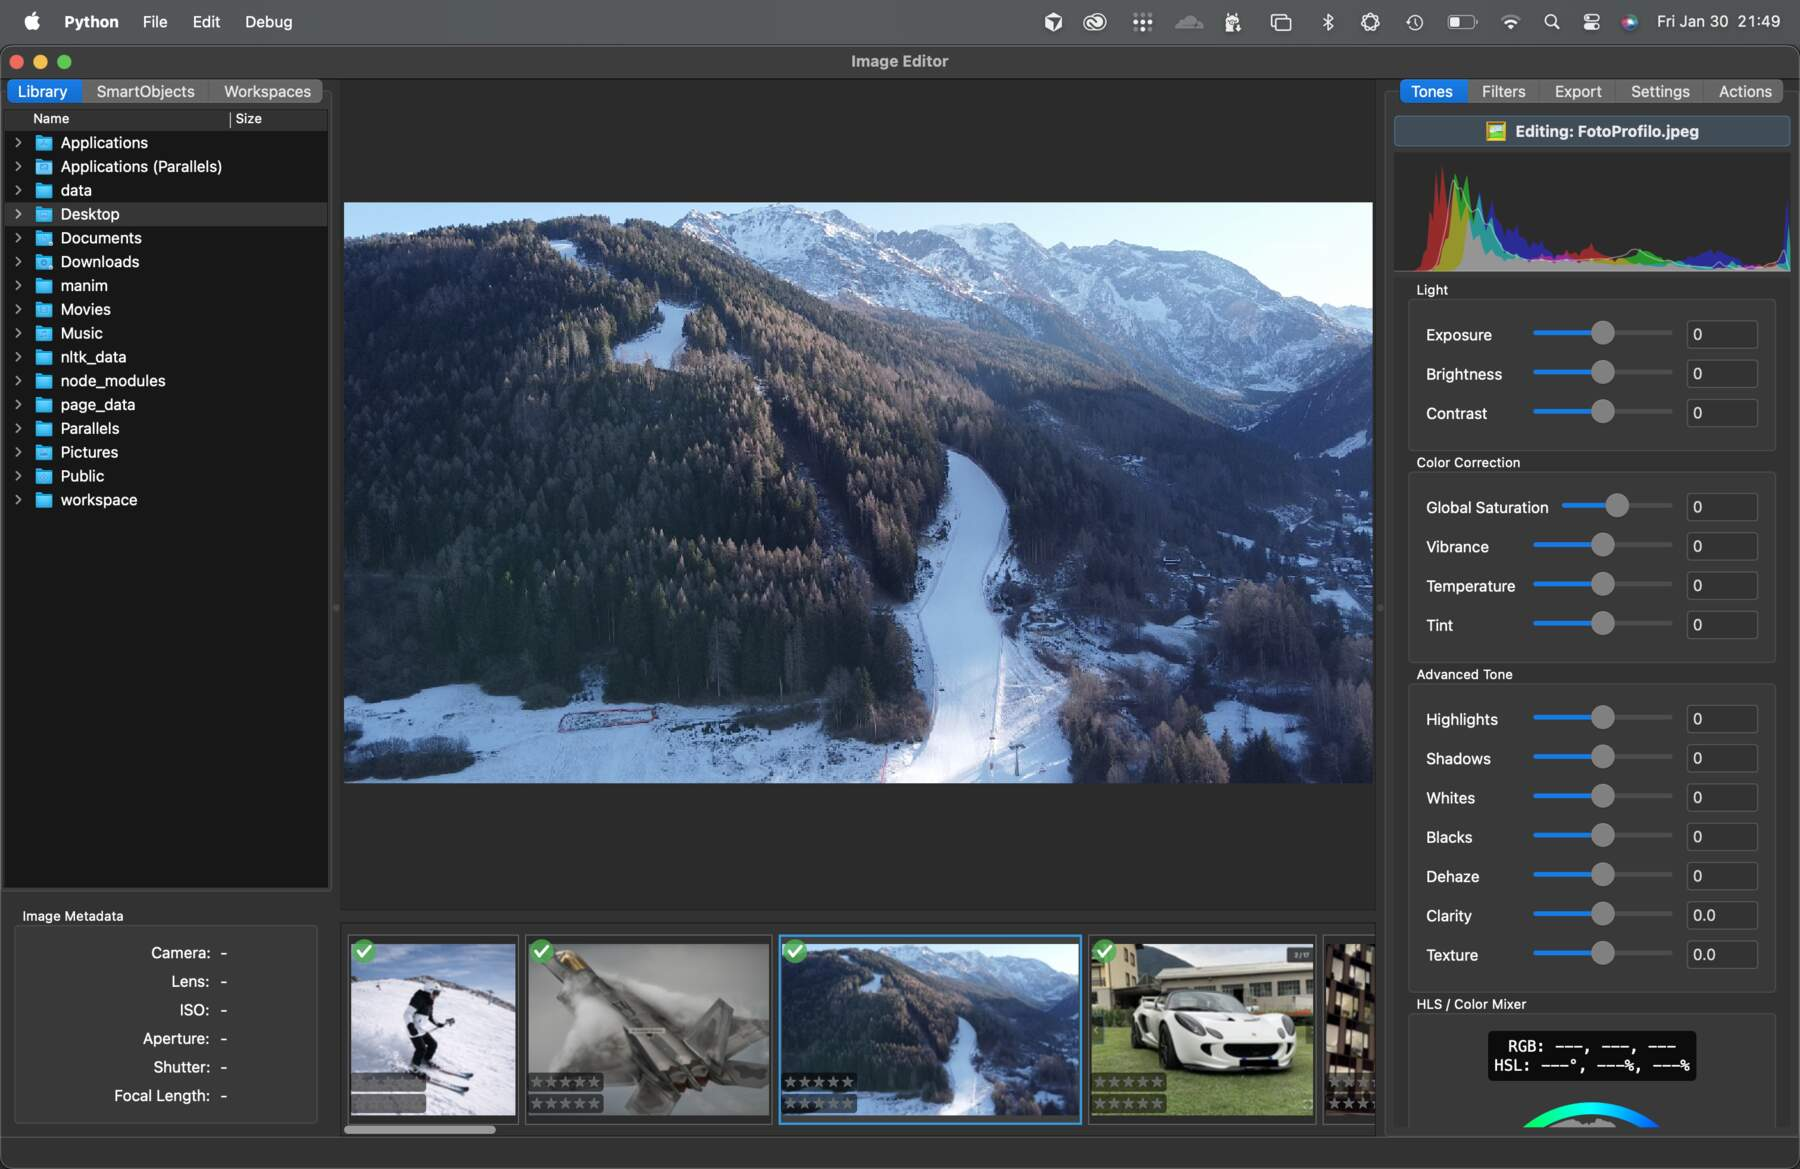
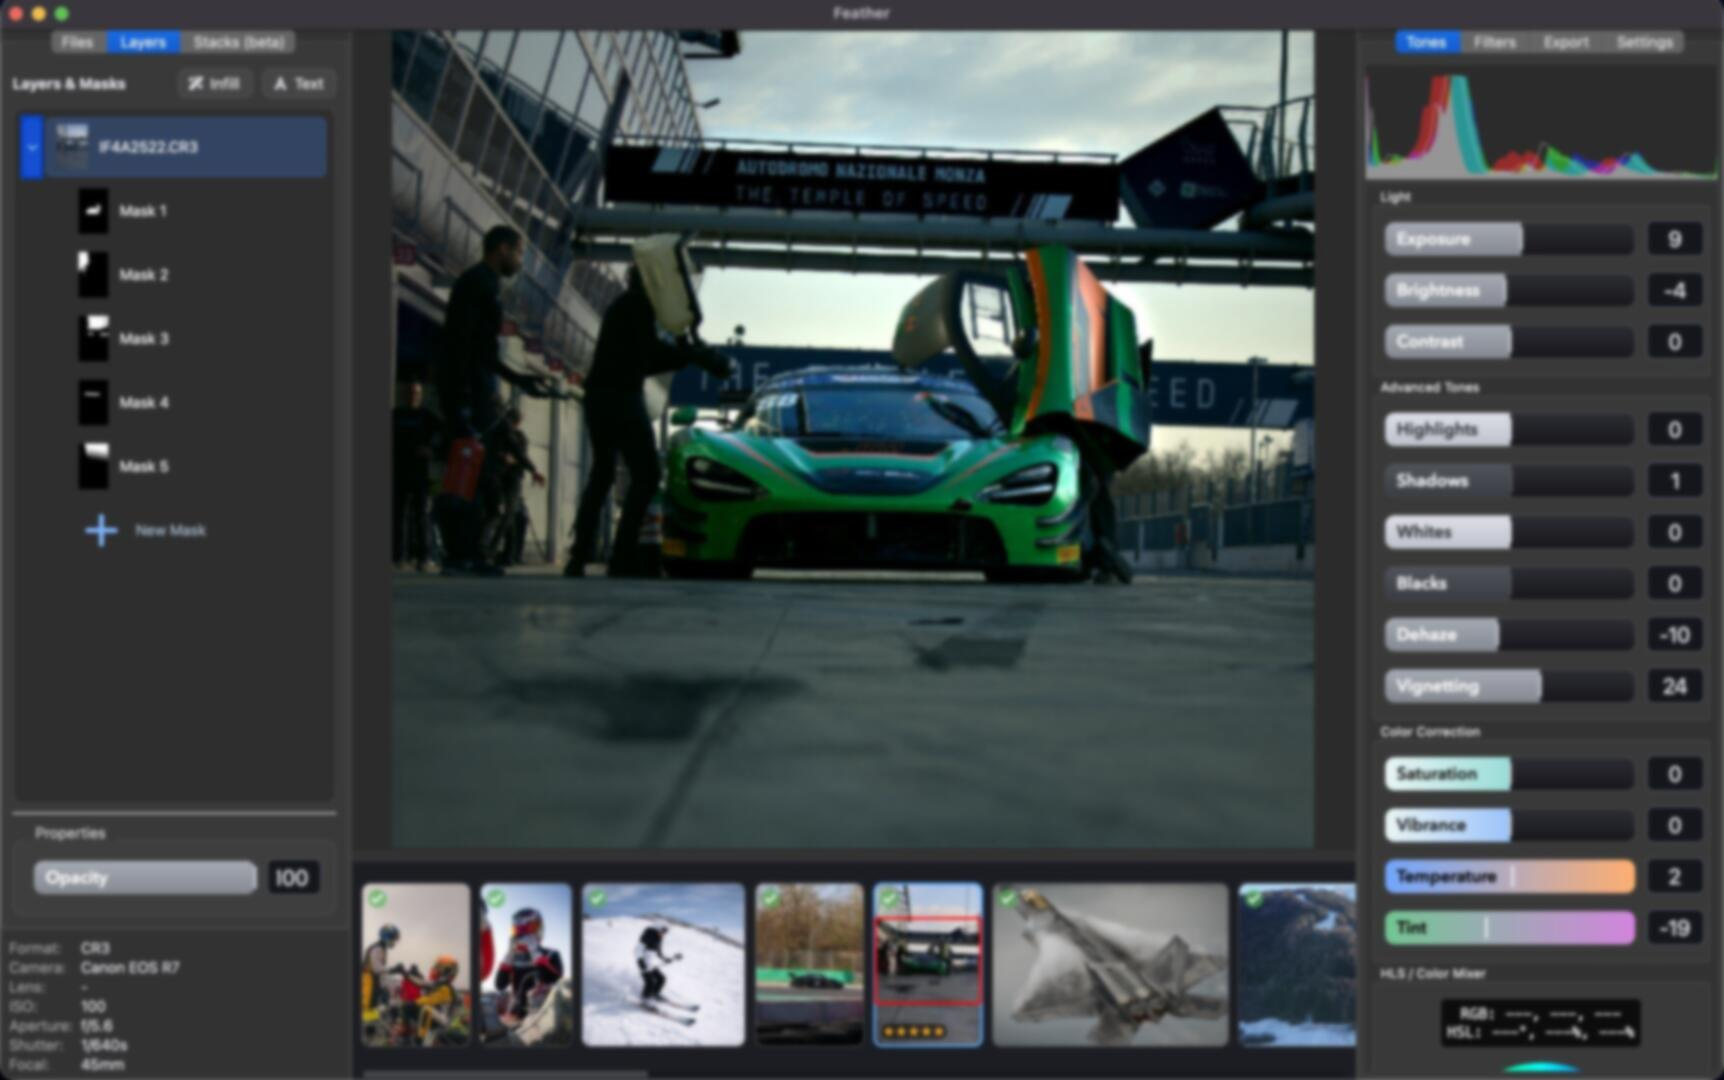
fuck it good enough

diff --git a/components/Hero.tsx b/components/Hero.tsx
@@ -2,7 +2,7 @@ import React, { useState, useEffect } from 'react';
 import { motion, AnimatePresence } from 'framer-motion';
 import { ChevronDown, Apple, Monitor } from 'lucide-react';
 
-const words = ["Camera's", "Creator's", "Full Frame", "Real"];
+const words = ["Private AI", "GenAI Infill", "Color Mixer", "Start Free", "Buy Once", "Smart Selection"];
 
 const Hero: React.FC<{ onPurchase: () => void; loading?: boolean }> = ({ onPurchase, loading = false }) => {
   const [index, setIndex] = useState(0);
@@ -23,8 +23,8 @@ const Hero: React.FC<{ onPurchase: () => void; loading?: boolean }> = ({ onPurch
 
   return (
     <section className="relative h-screen w-full flex flex-col items-center justify-center text-center px-4 overflow-hidden bg-black">
-      {/* Background Image (30% opacity) */}
-      <div className="absolute inset-0 bg-[url('/images/firstimage.jpg')] bg-cover bg-center opacity-10 z-0" />
+      {/* Background Image (10% opacity) */}
+      <div className="absolute inset-0 bg-[url('/images/firstimage.jpg')] bg-cover bg-center opacity-20 z-0" />
       {/* Background Glow */}
       <div className="absolute top-1/2 left-1/2 -translate-x-1/2 -translate-y-1/2 w-[600px] h-[600px] bg-blue-900/20 rounded-full blur-[120px] -z-10" />
 
@@ -32,16 +32,13 @@ const Hero: React.FC<{ onPurchase: () => void; loading?: boolean }> = ({ onPurch
         initial={{ opacity: 0, y: 20 }}
         animate={{ opacity: 1, y: 0 }}
         transition={{ duration: 0.8 }}
-        className="space-y-2 mb-12 flex flex-col items-center z-10 w-full max-w-[900px]"
+        className="space-y-[0.4rem] mb-12 flex flex-col items-center z-10 w-full max-w-[900px]"
       >
-        <h1 className="text-4xl md:text-6xl lg:text-7xl font-bold tracking-tight text-transparent bg-clip-text bg-gradient-to-b from-white to-white/70 whitespace-nowrap">
-          <span className="inline-flex items-center gap-x-2 md:gap-x-3">
-            <span>Phone&apos;s</span>
-            <span>Brain.</span>
-          </span>
+        <h1 className="text-4xl md:text-6xl lg:text-7xl font-bold tracking-tight text-transparent bg-clip-text bg-gradient-to-b from-white to-white/70 scale-85 origin-top">
+          <span className="block">Rethink Pictures</span>
         </h1>
         {/* Desktop version with rotating words */}
-        <div className="hidden md:flex w-full flex-row justify-center items-center gap-x-2 md:gap-x-3 text-6xl lg:text-7xl font-bold tracking-tight whitespace-nowrap">
+        <div className="hidden md:flex w-full flex-row justify-center items-center gap-x-2 md:gap-x-3 text-6xl lg:text-7xl font-bold tracking-tight whitespace-nowrap scale-85 origin-top" style={{ marginLeft: '27px' }}>
           <div className="relative h-[1.3em] w-[6ch]">
             <div className="absolute right-0 h-[1.3em] w-[11ch] overflow-hidden text-right flex items-center justify-end">
               <AnimatePresence mode="wait">
@@ -58,13 +55,13 @@ const Hero: React.FC<{ onPurchase: () => void; loading?: boolean }> = ({ onPurch
               </AnimatePresence>
             </div>
           </div>
-          <span className="text-transparent bg-clip-text bg-gradient-to-b from-white to-white/70 pb-1">Heart.</span>
+          <span className="text-transparent bg-clip-text bg-gradient-to-b from-white to-white/70 pb-1">Editor</span>
         </div>
 
         {/* Mobile version - fixed text */}
-        <div className="md:hidden text-4xl font-bold tracking-tight text-center whitespace-nowrap">
-          <span className="text-blue-400">Creator's</span>
-          <span className="text-transparent bg-clip-text bg-gradient-to-b from-white to-white/70 ml-2"> Heart.</span>
+        <div className="md:hidden text-4xl font-bold tracking-tight text-center">
+          <span className="text-blue-400">Private AI</span>
+          <span className="text-transparent bg-clip-text bg-gradient-to-b from-white to-white/70 ml-2"> Editor</span>
         </div>
       </motion.div>
 

diff --git a/components/FAQ.tsx b/components/FAQ.tsx
@@ -1,7 +1,14 @@
 import React, { useState } from 'react';
 import { motion, AnimatePresence } from 'framer-motion';
 
-const faqs = [
+interface FAQ {
+  question: string;
+  videoUrl?: string;
+  duration?: string;
+  email?: string;
+}
+
+const faqs: FAQ[] = [
   {
     question: 'I have trouble with login or purchase',
     videoUrl: 'https://www.youtube.com/embed/NoM8oj7JxhA',
@@ -11,6 +18,10 @@ const faqs = [
     question: 'I would like a walkthrough of the features',
     videoUrl: 'https://www.youtube.com/embed/UaofiuitYOs',
     duration: '6 min',
+  },
+  {
+    question: 'I want to suggest a feature',
+    email: 'lucam185.feather@gmail.com',
   },
 ];
 
@@ -73,15 +84,27 @@ const FAQ: React.FC = () => {
                     className="overflow-hidden"
                   >
                     <div className="px-6 pb-6 pt-2">
-                      <div className="relative w-full rounded-lg overflow-hidden bg-zinc-900" style={{ paddingBottom: '56.25%' }}>
-                        <iframe
-                          className="absolute inset-0 w-full h-full"
-                          src={faq.videoUrl}
-                          title={faq.question}
-                          allow="accelerometer; autoplay; clipboard-write; encrypted-media; gyroscope; picture-in-picture"
-                          allowFullScreen
-                        />
-                      </div>
+                      {faq.videoUrl ? (
+                        <div className="relative w-full rounded-lg overflow-hidden bg-zinc-900" style={{ paddingBottom: '56.25%' }}>
+                          <iframe
+                            className="absolute inset-0 w-full h-full"
+                            src={faq.videoUrl}
+                            title={faq.question}
+                            allow="accelerometer; autoplay; clipboard-write; encrypted-media; gyroscope; picture-in-picture"
+                            allowFullScreen
+                          />
+                        </div>
+                      ) : (
+                        <div className="bg-zinc-900 rounded-lg p-6 text-center">
+                          <p className="text-zinc-400 mb-4">Send your feature requests to:</p>
+                          <a
+                            href={`mailto:${faq.email}`}
+                            className="text-blue-400 hover:text-blue-300 transition-colors font-medium"
+                          >
+                            {faq.email}
+                          </a>
+                        </div>
+                      )}
                     </div>
                   </motion.div>
                 )}
